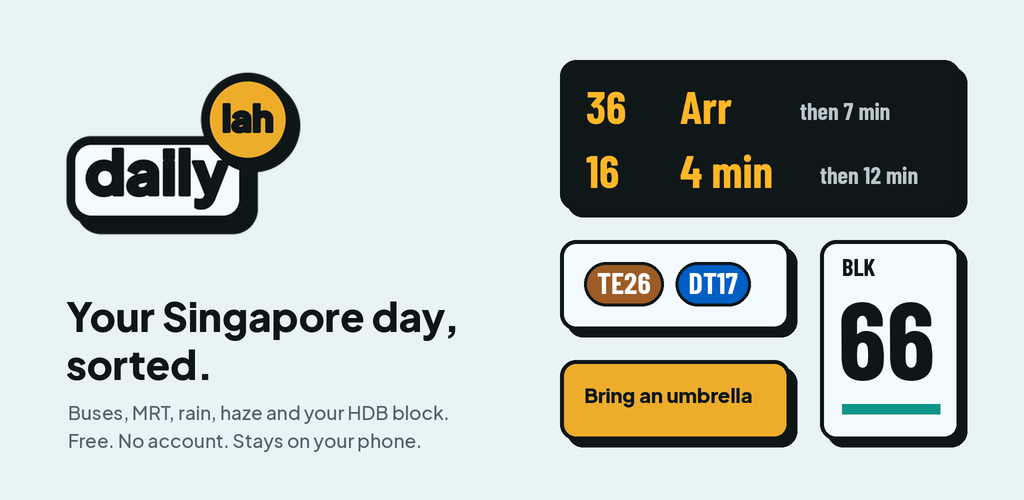
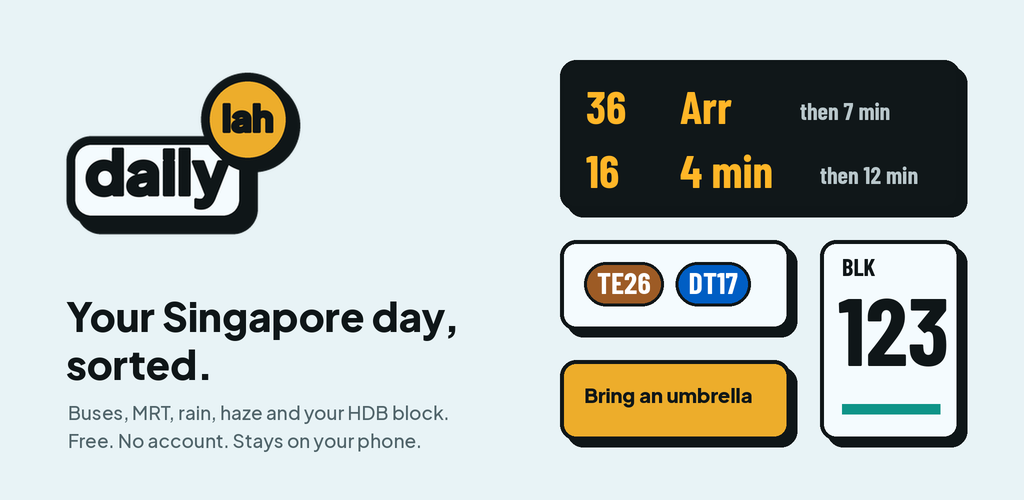
Feature graphic: use a made-up block number
Claude-Session: https://claude.ai/code/session_01QEj35UtFj3qRbUZsAT2WLz

Changed region(s): [[0.8125, 0.6, 0.9375, 0.78]]

diff --git a/scripts/make_feature_graphic.py b/scripts/make_feature_graphic.py
@@ -90,9 +90,10 @@ def feature():
         x += w + 12
 
     # 3. Painted block number.
+    # A made-up block number, not anyone's real home.
     sticker(d, (820, 240, 960, 440), CARD, radius=16)
     text(d, (842, 252), "BLK", bar(24), INK)
-    text(d, (838, 270), "66", bar(110), INK)
+    text(d, (838, 270), "123", bar(96), INK)
     d.rectangle([842 * S, 404 * S, 940 * S, 414 * S], fill=TEAL)
 
     # 4. Rain pill.
